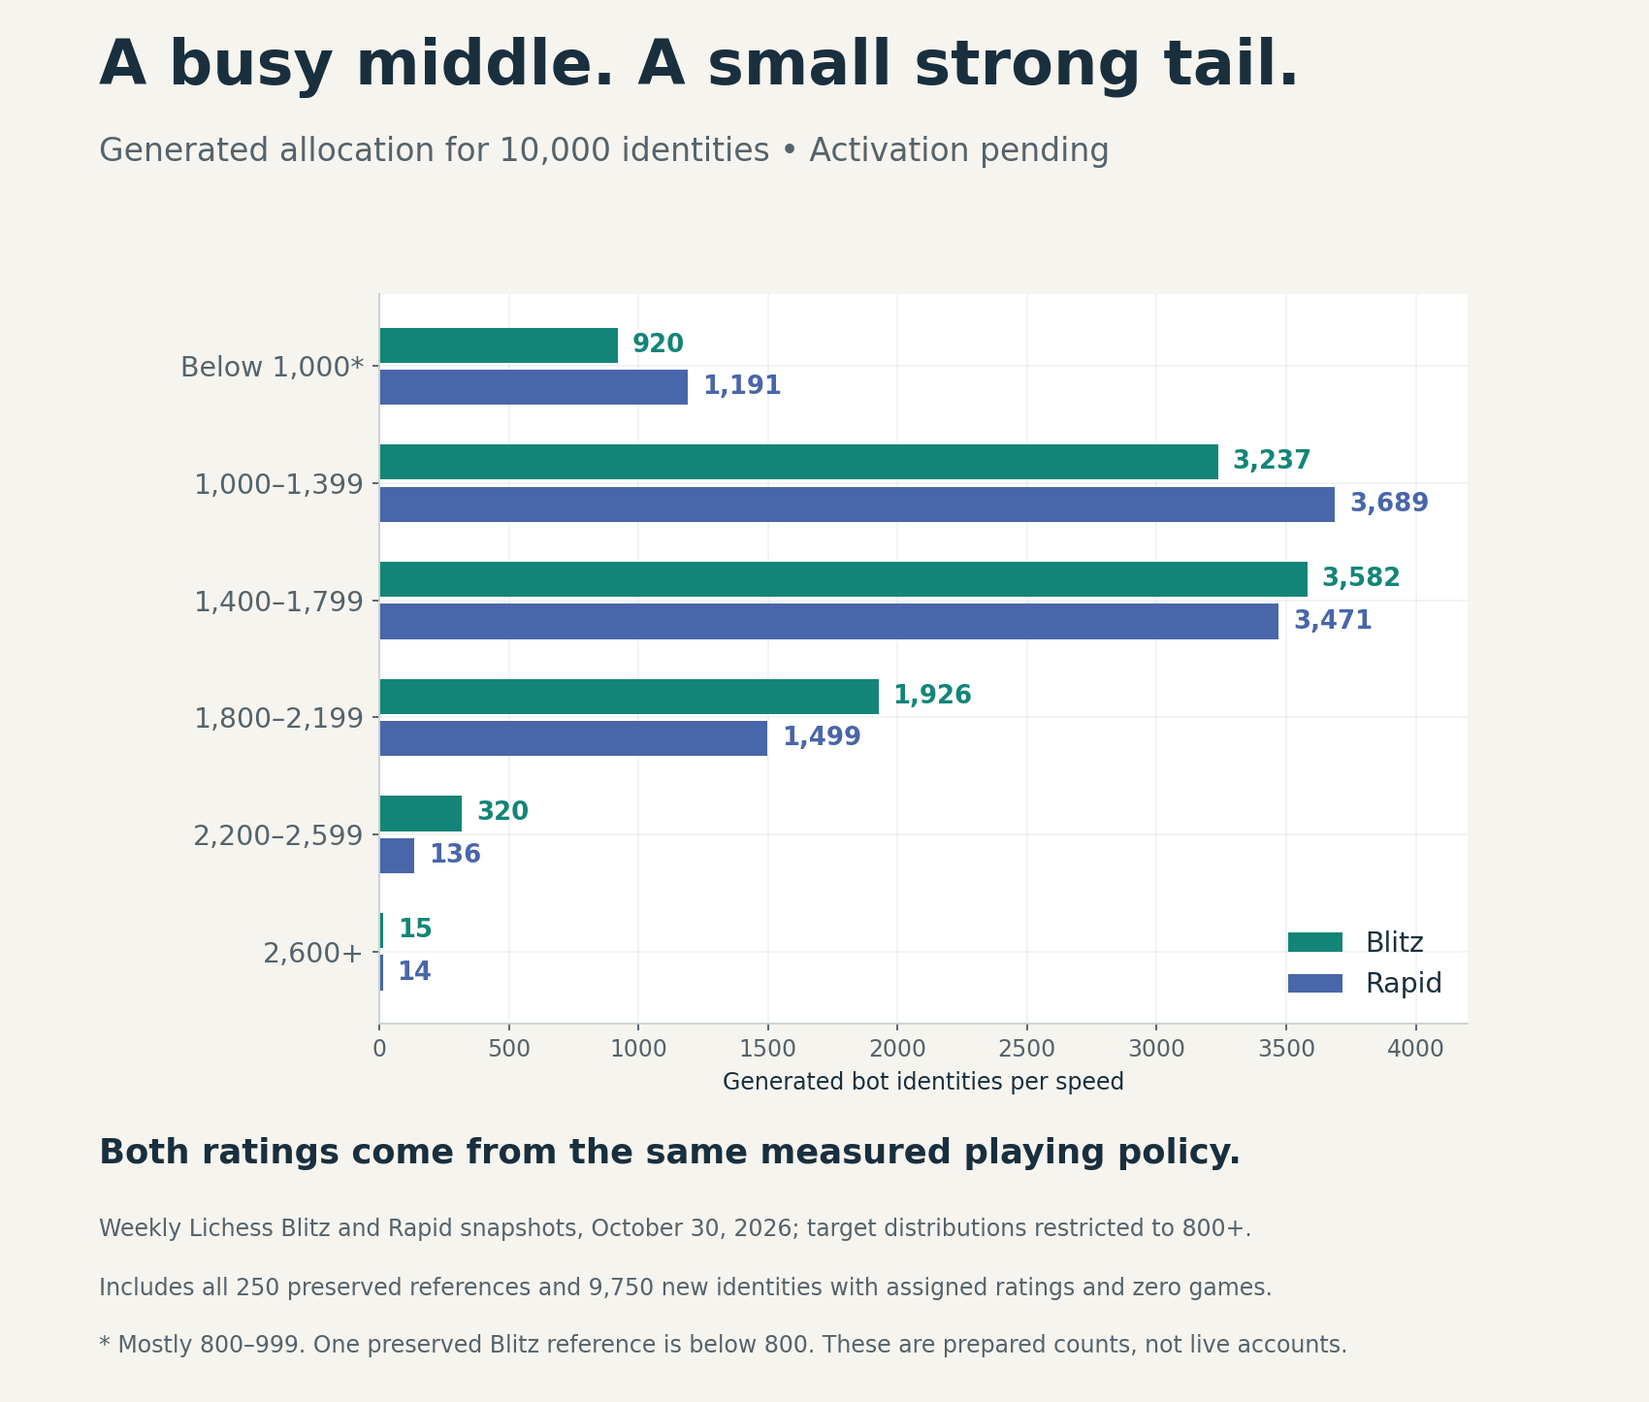
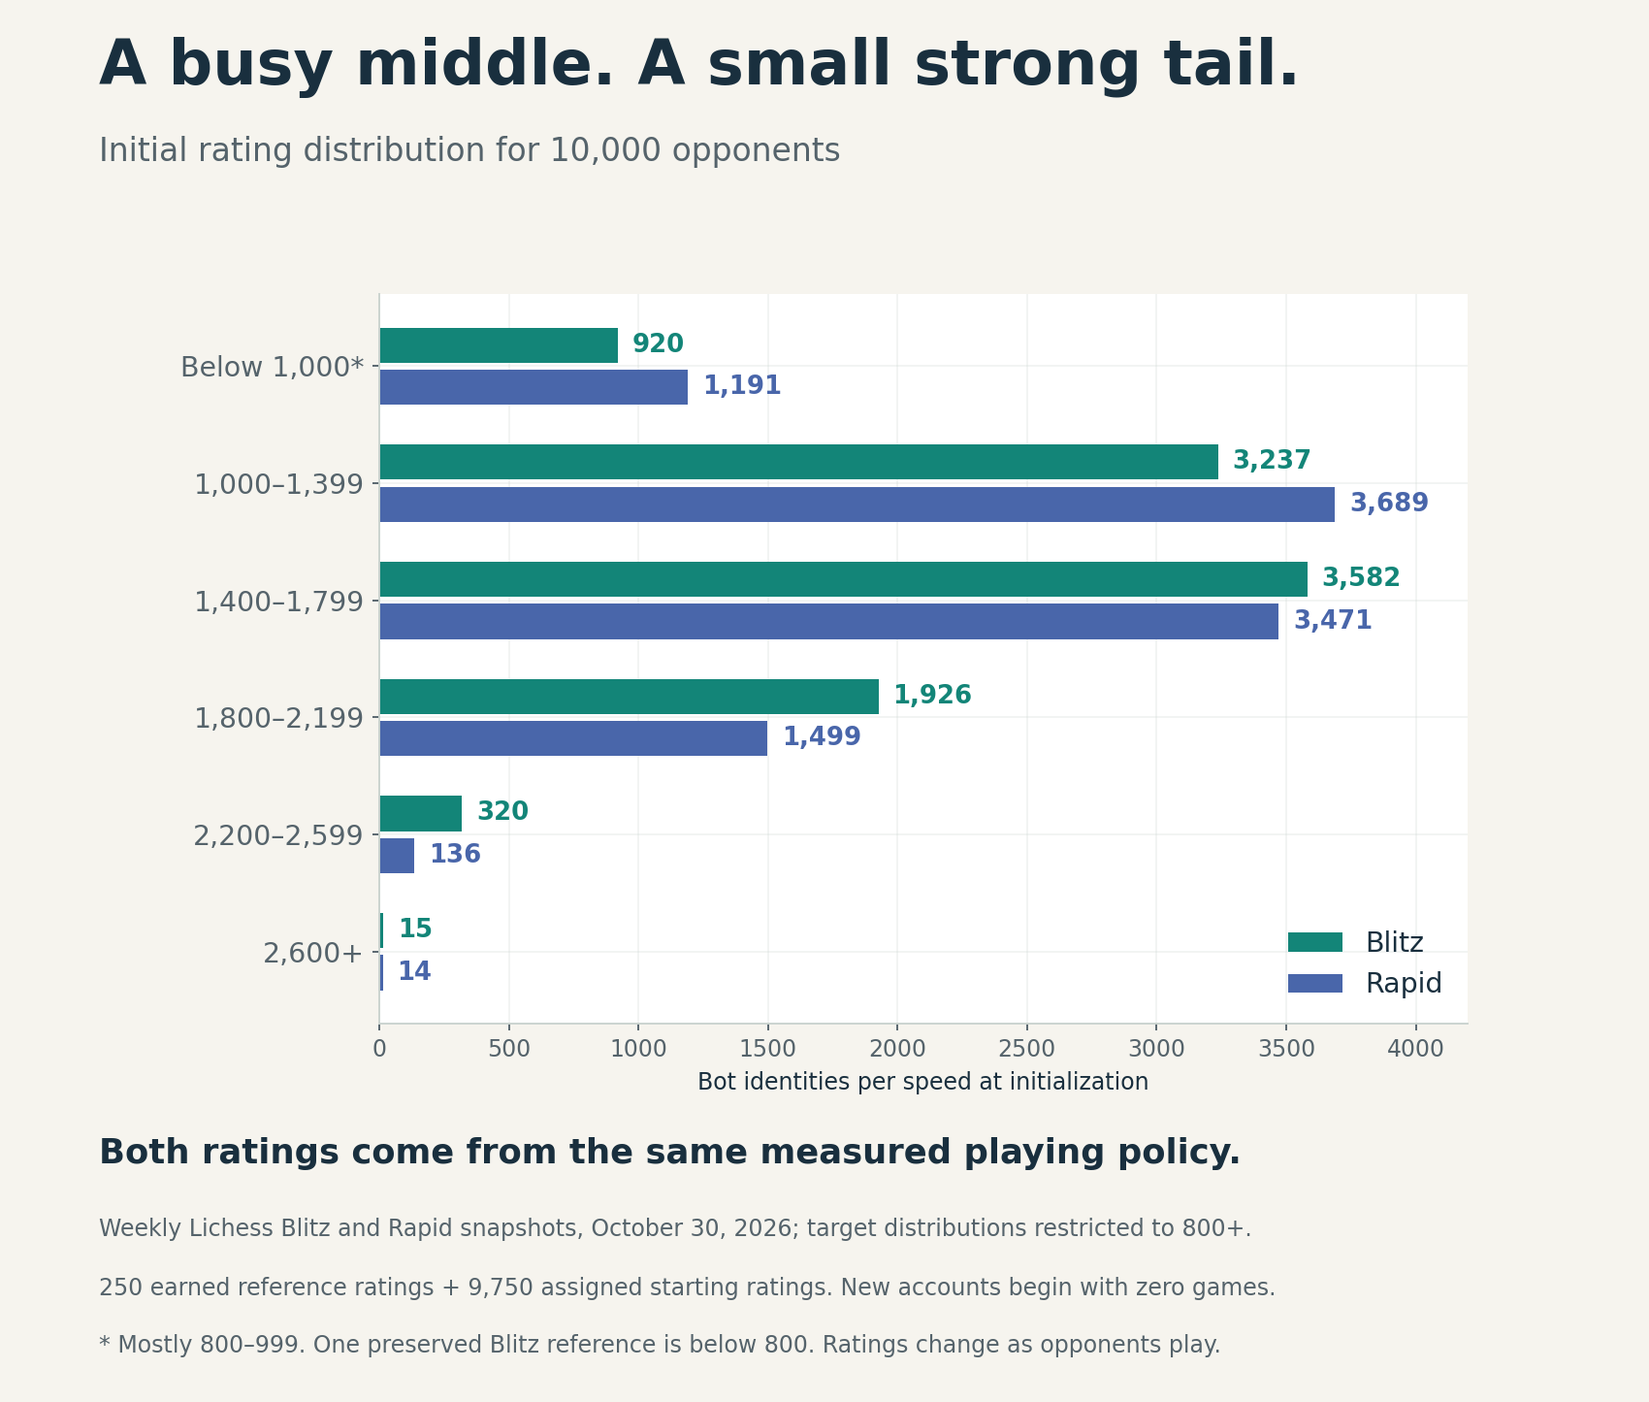
Publish verified live status of the 10000-opponent roster (#20)

Changed region(s): [[0.0624, 0.9031, 0.8106, 0.9654], [0.0624, 0.0934, 0.6859, 0.1246], [0.4365, 0.7474, 0.6859, 0.7785]]

diff --git a/studies/bot-rating-establishment-2026-10-31/tools/build_reader_figures.py b/studies/bot-rating-establishment-2026-10-31/tools/build_reader_figures.py
@@ -1,7 +1,7 @@
 #!/usr/bin/env python3
 """Public explanation charts; saved measurements only, no neural inference.
 
-The catalog distribution is the generated, not yet activated allocation. The sampling effects are
+The catalog distribution is the initial allocation, not a live rating feed. The sampling effects are
 controlled earlier match results; the native ratings are the unchanged pool
 snapshot. These distinct sources are never pooled into a causal effect.
 """
@@ -141,7 +141,7 @@ def main():
 
     fig,canvas=page(10,8.5)
     text(canvas,.06,.94,'A busy middle. A small strong tail.',27,weight='bold')
-    text(canvas,.06,.885,'Generated allocation for 10,000 identities • Activation pending',14,MUTED)
+    text(canvas,.06,.885,'Initial rating distribution for 10,000 opponents',14,MUTED)
     ax=fig.add_axes([.23,.27,.66,.52]);style_chart(ax)
     labels=['Below 1,000*','1,000–1,399','1,400–1,799','1,800–2,199','2,200–2,599','2,600+']
     for speed,offset,color in [('blitz',-.18,TEAL),('rapid',.18,BLUE)]:
@@ -150,13 +150,13 @@ def main():
         ax.barh(positions,counts,color=color,height=.30,label=speed.title())
         for y,count in zip(positions,counts):
             ax.text(count+55,y,f'{count:,}',va='center',fontsize=11,fontweight='bold',color=color)
-    ax.set(yticks=range(6),yticklabels=labels,xlim=(0,4200),xlabel='Generated bot identities per speed')
+    ax.set(yticks=range(6),yticklabels=labels,xlim=(0,4200),xlabel='Bot identities per speed at initialization')
     ax.invert_yaxis();ax.tick_params(axis='y',labelsize=12)
     ax.legend(loc='lower right',frameon=False,fontsize=12)
     text(canvas,.06,.17,'Both ratings come from the same measured playing policy.',15,weight='bold')
     text(canvas,.06,.118,'Weekly Lichess Blitz and Rapid snapshots, October 30, 2026; target distributions restricted to 800+.',10,MUTED)
-    text(canvas,.06,.076,'Includes all 250 preserved references and 9,750 new identities with assigned ratings and zero games.',10,MUTED)
-    text(canvas,.06,.035,'* Mostly 800–999. One preserved Blitz reference is below 800. These are prepared counts, not live accounts.',10,MUTED)
+    text(canvas,.06,.076,'250 earned reference ratings + 9,750 assigned starting ratings. New accounts begin with zero games.',10,MUTED)
+    text(canvas,.06,.035,'* Mostly 800–999. One preserved Blitz reference is below 800. Ratings change as opponents play.',10,MUTED)
     save(fig,'reader-roster')
 
     inputs=('configurations.json','final-native-perfs.json','reader-chart-sources.json',
@@ -165,7 +165,7 @@ def main():
             'catalog-2026-11-01/distribution-source.json')
     metrics={'referenceBots':250,'finalEstablishedBotSpeedRatings':500,'generatedCatalogCount':catalog['total'],
       'generatedBandCounts':{s:catalog['speeds'][s]['bandCounts'] for s in ('blitz','rapid')},
-      'catalogSourceCommit':catalog['sourceCommit'],'activation':'pending',
+      'catalogSourceCommit':catalog['sourceCommit'],'distributionScope':'initial catalog allocation; not a live rating feed',
       'newAssignedRd':catalog['assignedRd'],'newAssignedGameCount':catalog['assignedGameCount'],
       'samplingEffects':[c['gain'] for c in comps], 'neuralInferencePerformed':False,
       'inputsSha256':{n:hashlib.sha256((ROOT/'data'/n).read_bytes()).hexdigest() for n in inputs}}

diff --git a/studies/bot-rating-establishment-2026-10-31/tools/audit_catalog_allocation.py b/studies/bot-rating-establishment-2026-10-31/tools/audit_catalog_allocation.py
@@ -1,5 +1,5 @@
 #!/usr/bin/env python3
-"""Check the prepared catalog allocation against unchanged published evidence.
+"""Check the initial catalog allocation against unchanged published evidence.
 
 Standard library only. Reads saved files; no fit, inference, games or network.
 The complete identity list and application generator remain at the pinned source.
@@ -108,7 +108,7 @@ def audit_catalog(root=ROOT):
                          'newAssignedRange': [min(new_ratings), max(new_ratings)]}
     return {'status': 'passed', 'total': 10000, 'preserved': 250, 'added': 9750,
             'usedMeasuredPolicies': len(counts), 'assignedRd': 100, 'assignedGameCount': 0,
-            'activation': 'pending; this audit does not inspect live accounts',
+            'activation': 'not evaluated; this offline audit does not inspect live accounts',
             'scope': 'Source hashes, reference-policy means and aggregate allocation; '
                      'full identity/personality/native provisioning checks belong to pinned application source',
             'sourceCommit': provenance['sourceCommit'], 'speeds': results,

diff --git a/studies/bot-rating-establishment-2026-10-31/CATALOG-METHOD.md b/studies/bot-rating-establishment-2026-10-31/CATALOG-METHOD.md
@@ -1,12 +1,13 @@
-# Method for the generated 10,000-bot catalog
+# Method for the live 10,000-bot catalog
 
-**Status: generated and prepared for deployment, 1 November 2026; activation
-pending.** The owner approved a 10,000-identity roster using supported Maia
-policies, with new assigned nonprovisional ratings and truthful zero-game
-counts. This note records the prepared implementation from
-[Mute Chess PR #174](https://github.com/Dash1971/mute-chess/pull/174), pinned to
-[commit 7b8f5d4](https://github.com/Dash1971/mute-chess/tree/7b8f5d4625c77a6ff7e30985f6d6b1904cc26a93).
-It does not claim a live deployment or create new game evidence.
+**Status: live on Mute Chess.** Deployment verification confirmed 10,000 bot
+identities: 250 preserved reference accounts and 9,750 new accounts initialized
+with research-seeded, nonprovisional ratings and zero completed games. The
+[sanitized verification record](data/catalog-2026-11-01/deployment-status.json)
+records the initial counts and their evidence scope. The live implementation
+comes from [Mute Chess PR #174](https://github.com/Dash1971/mute-chess/pull/174),
+pinned to [commit 594342d](https://github.com/Dash1971/mute-chess/tree/594342df8d11ad04b7a6d914f75fbd3743098aa6).
+Deployment adds no new calibration-game evidence.
 
 The earlier smooth formula and illustrative allocation are preserved in the
 [historical planning note](PLANNING-APPROXIMATION.md). They are not the method
@@ -39,7 +40,7 @@ The sums include reference accounts i using the same effective policy p.
 A policy with one reference uses that account's recorded rating. When several
 accounts share the policy, inverse-RD-squared weighting supplies a descriptive
 central estimate. It does not make those accounts independent replicates or
-supply a new confidence interval. The prepared allocation uses 202 distinct
+supply a new confidence interval. The initial allocation uses 202 distinct
 measured policies, with separate Blitz and Rapid estimates for each.
 
 History is retained when matching a measured policy; there is no universal
@@ -57,7 +58,7 @@ strength; it does not newly validate every timing personality or clock control.
 
 ## Initialization and supported range
 
-The approved new-account policy initializes **RD 100, native default volatility
+The new-account policy initialized **RD 100, native default volatility
 and zero completed games**. Native Glicko's RD-below-110 criterion makes those
 assigned perfs nonprovisional. The choice of RD 100 is an explicit product
 initialization policy, not a measured posterior uncertainty for each new
@@ -68,13 +69,14 @@ The existing 250 accounts retain their earned perfs, settings and histories.
 The generation does not copy their game counts or RD into the new accounts,
 reset existing ratings, or change human initialization and rating semantics.
 Native provisioning and the complete per-account data are reviewed in the
-pinned application source; this publication audits the saved research inputs
-and aggregate allocation, not the live database.
+pinned application source. Separate deployment checks confirmed those initial
+counts and preservation; the reproducible offline audit below checks saved
+research inputs and allocation, without querying the live database.
 
 The supported offering is approximately **800–3,000 Blitz and 800–2,800 Rapid**.
 New templates whose estimated rating is below 800 in either speed are excluded,
 not clipped upward. Preserved references include one Blitz rating below 800.
-The prepared roster ranges are:
+The initial roster ranges are:
 
 | Scope | Blitz | Rapid |
 | --- | ---: | ---: |
@@ -108,8 +110,8 @@ explicitly unvalidated transfers, not additional measured calibration or a
 claim that every speed has the same population distribution. All new assigned
 categories use the owner-approved initialization above; existing unplayed
 categories are not reseeded. See the pinned application's
-[catalog method](https://github.com/Dash1971/mute-chess/blob/7b8f5d4625c77a6ff7e30985f6d6b1904cc26a93/docs/catalog-roster.md)
-and [dated cross-speed references](https://github.com/Dash1971/mute-chess/blob/7b8f5d4625c77a6ff7e30985f6d6b1904cc26a93/docs/data/lichess-maia-adjustment-reference-2026-10-30.json).
+[catalog method](https://github.com/Dash1971/mute-chess/blob/594342df8d11ad04b7a6d914f75fbd3743098aa6/docs/catalog-roster.md)
+and [dated cross-speed references](https://github.com/Dash1971/mute-chess/blob/594342df8d11ad04b7a6d914f75fbd3743098aa6/docs/data/lichess-maia-adjustment-reference-2026-10-30.json).
 
 ## Distribution and reproduction
 
@@ -147,16 +149,19 @@ counts are:
 
 The maximum cumulative mismatch at those boundaries is **0.00473 percentage
 points Blitz** and **0.11940 Rapid**. Retaining all original accounts prevents
-an exact match to Rapid's small upper tail. Counts describe this prepared
-roster, not 10,000 independent observations or an activated population.
+an exact match to Rapid's small upper tail. Counts describe the initial
+roster, not 10,000 independent observations or a continuously updated census.
 
 The [application manifest](data/catalog-2026-11-01/catalog-manifest.json) records
 template counts, assigned ratings, source policies, both distributions and the
 strongest 20 identities in each speed. It is copied byte-for-byte from the
 pinned preparation commit. [Source provenance](data/catalog-2026-11-01/source-provenance.json)
 records every copied file's SHA-256, the original research input hashes, the
-application commit and the complete generated roster's hash. The full identity
-list remains in the [application source](https://github.com/Dash1971/mute-chess/blob/7b8f5d4625c77a6ff7e30985f6d6b1904cc26a93/lila-adapter/catalog-roster.json)
+preparation commit and the complete generated roster's hash. That historical
+record remains unchanged. The separate [deployment record](data/catalog-2026-11-01/deployment-status.json)
+pins the final source: all settings, identities, names and ratings are identical;
+only the personality assignment-method label changed. The full identity list
+remains in the [application source](https://github.com/Dash1971/mute-chess/blob/594342df8d11ad04b7a6d914f75fbd3743098aa6/lila-adapter/catalog-roster.json)
 rather than being duplicated here.
 
 Run the independent standard-library audit from this study directory:
@@ -180,6 +185,7 @@ illustrative allocation is retained as historical evidence. The scatter plots
 use the original native perfs. The color `1 − Temperature × Top-P` describes
 settings, not a measured causal effect or the implemented rating rule.
 
-No neural inference, new games, rating writes, runtime deployment or capacity
-increase accompanies this research publication. Activation requires the
-application's verified-main release and separate live provisioning audit.
+This publication adds no neural inference or new games. The separate live
+verification confirmed the initial native records and public Research-seeded
+label; subsequent games and inactivity can change ratings and RD. Original
+research data, frozen predictions and preparation provenance remain unchanged.

diff --git a/studies/bot-rating-establishment-2026-10-31/REPORT.md b/studies/bot-rating-establishment-2026-10-31/REPORT.md
@@ -8,7 +8,7 @@ the same playing strength as it does on Lichess**, at the same time control.
 
 Maia's settings let us create many different opponents. This report explains
 how we turn those settings into useful ratings—and how that research supports
-a much larger bot pool, now generated and prepared for deployment.
+the pool of **10,000 opponents now live on Mute Chess**.
 
 ## 1. How did we come up with the bot ratings?
 
@@ -75,13 +75,13 @@ opponents.
 
 ![Higher Maia inputs generally produce higher playing ratings, with a substantial spread from settings and rating uncertainty.](figures/reader-settings.png)
 
-## A prepared pool of 10,000 opponents
+## 10,000 opponents, now live
 
-**We have generated 10,000 identities: the 250 reference bots and 9,750 new
-opponents using measured playing policies.** The supported offering is roughly
-**800–3,000 in Blitz and 800–2,800 in Rapid**. The roster is prepared in
-[source PR #174](https://github.com/Dash1971/mute-chess/pull/174); **live activation
-is still pending**.
+**Mute Chess now offers 10,000 opponents: the 250 reference bots and 9,750 new
+identities using measured playing policies.** The supported range is roughly
+**800–3,000 in Blitz and 800–2,800 in Rapid**. New accounts are labeled
+**Research-seeded**, making their starting assignment distinct from an earned
+game history.
 
 Each new identity keeps its settings and personality. A new name does not need
 another tournament to rediscover the strength of a policy already represented
@@ -107,9 +107,8 @@ as a separate [planning approximation](PLANNING-APPROXIMATION.md), but it does
 not assign the generated roster's ratings. Nor do we add a strength bonus to
 put a favorite character at the top of the list.
 
-The approved initialization gives each new bot **RD 100 and zero completed
-games**. That makes its assigned native rating nonprovisional under the normal
-110-point boundary. It is an informed starting assignment, not a claim that the
+Each new bot was initialized with **RD 100 and zero completed games**. That made
+its assigned native rating nonprovisional under the normal 110-point boundary. It is an informed starting assignment, not a claim that the
 new account has already played calibration games. Native Glicko continues
 updating the rating and its uncertainty; no game count or history is copied.
 The rating rules for human accounts are unchanged.
@@ -121,7 +120,7 @@ either extreme. The generator uses archived weekly **Blitz and Rapid** player
 distributions from Lichess, restricted to the supported range of 800 and above.
 It matches both together because every policy has a paired Blitz/Rapid rating.
 
-![The generated 10,000-identity roster, with separate Blitz and Rapid distributions concentrated in the middle of the supported range. Activation is pending.](figures/reader-roster.png)
+![The initial 10,000-opponent roster, with separate Blitz and Rapid distributions concentrated in the middle of the supported range.](figures/reader-roster.png)
 
 | Rating band | Blitz identities | Rapid identities |
 | --- | ---: | ---: |
@@ -133,19 +132,19 @@ It matches both together because every policy has a paired Blitz/Rapid rating.
 | 2,600+ | 15 | 14 |
 | **Total** | **10,000** | **10,000** |
 
-These are counts in the **generated roster**, including the preserved reference
-accounts. They are not 10,000 independently measured strengths or a claim that
-the roster is already live. The [dated sources and allocation audit](CATALOG-METHOD.md#distribution-and-reproduction)
+These are the **initial roster counts**, including the preserved reference
+accounts. Ratings change as opponents play; the chart is not a live rating feed
+or 10,000 independently measured strengths. The [dated sources and allocation audit](CATALOG-METHOD.md#distribution-and-reproduction)
 show how the counts follow the Lichess distributions while retaining the actual
 policy ratings. The strongest Rapid tail is slightly larger than the target
 because the existing accounts are preserved.
 
-**We will offer the range supported by the measured Maia policies.** New
+**We offer the range supported by the measured Maia policies.** New
 policies with reference estimates below 800 are excluded rather than relabeled.
 The upper range comes from the observed reference opponents. Names, extra
 identities and a desired histogram do not make a policy stronger or weaker.
 
-The research now supports a much larger pool with persistent personalities,
+The live pool brings together persistent personalities,
 ratings grounded in measured policies, and normal rating updates as people
 play. Keeping those ratings close to Lichess strength remains the goal.
 

diff --git a/studies/bot-rating-establishment-2026-10-31/README.md b/studies/bot-rating-establishment-2026-10-31/README.md
@@ -4,7 +4,9 @@ The [public report](REPORT.md) explains how Mute Chess uses a varied Maia
 reference pool to estimate starting ratings for new bots. This guide contains
 the exact settings, recorded results and reproduction steps behind that article.
 The original prediction evaluation remains in the evidence below. The generated 10,000-identity catalog and its actual allocation have a separate
-[method note](CATALOG-METHOD.md). Activation is pending.
+[method note](CATALOG-METHOD.md). The roster is now live; a separate
+[sanitized deployment record](data/catalog-2026-11-01/deployment-status.json)
+documents the verified initial state.
 
 ## Method reference
 
@@ -29,7 +31,7 @@ pins, native criterion and capacity observations remain in the
 separately; together with this guide's 826-game dataset it provides the 3,449
 published games cited in the article. The baseline retains older earned history
 as well. No new games or rating writes accompany this rewrite. The historical [catalog-planning approximation](PLANNING-APPROXIMATION.md) is a
-separate posthoc calculation. The prepared implementation reuses exact measured
+separate posthoc calculation. The live implementation reuses exact measured
 policies; neither changes the original frozen procedure or its predictions.
 
 ## Evidence map
@@ -134,12 +136,12 @@ production cap of 2.
 
 ## Using the reference and its limits
 
-The prepared catalog reuses measured policies for 9,750 new identities while
-preserving all 250 original accounts. The approved new-account initialization
-assigns RD 100 and zero completed games, making those ratings nonprovisional
-under native rules without inventing earned history. The catalog has been
-generated in the pinned application source; activation is pending. This
-publication does not provision accounts. The [catalog note](CATALOG-METHOD.md)
+The live catalog reuses measured policies for 9,750 new identities while
+preserving all 250 original accounts. New accounts were initialized with RD 100
+and zero completed games, making those ratings nonprovisional under native
+rules without inventing earned history. They display a Research-seeded label.
+The separate deployment verification confirmed the initial native records;
+this publication and its offline audit do not provision accounts. The [catalog note](CATALOG-METHOD.md)
 explains the exact reuse rule, supported range and actual distribution.
 
 Audit the copied source records and aggregate allocation with no dependencies:

diff --git a/README.md b/README.md
@@ -22,8 +22,9 @@ results and match scores, with links to the full study and recorded data.
 How were the ratings obtained, how do they relate to Lichess, and how do Maia
 settings change strength? The report follows the Lichess starting reference
 through rated games and native Glicko, illustrates controlled sampling effects,
-and explains a proposed formula and Lichess-shaped allocation for a 10,000-bot
-roster. Measured ratings and future catalog plans are clearly distinguished.
+and explains how a 10,000-bot roster reuses measured playing policies with a
+Lichess-shaped allocation. Earned reference ratings and assigned starting
+ratings are clearly distinguished.
 
 ### Original bot-rating calibration dataset — 31 October 2026
 
